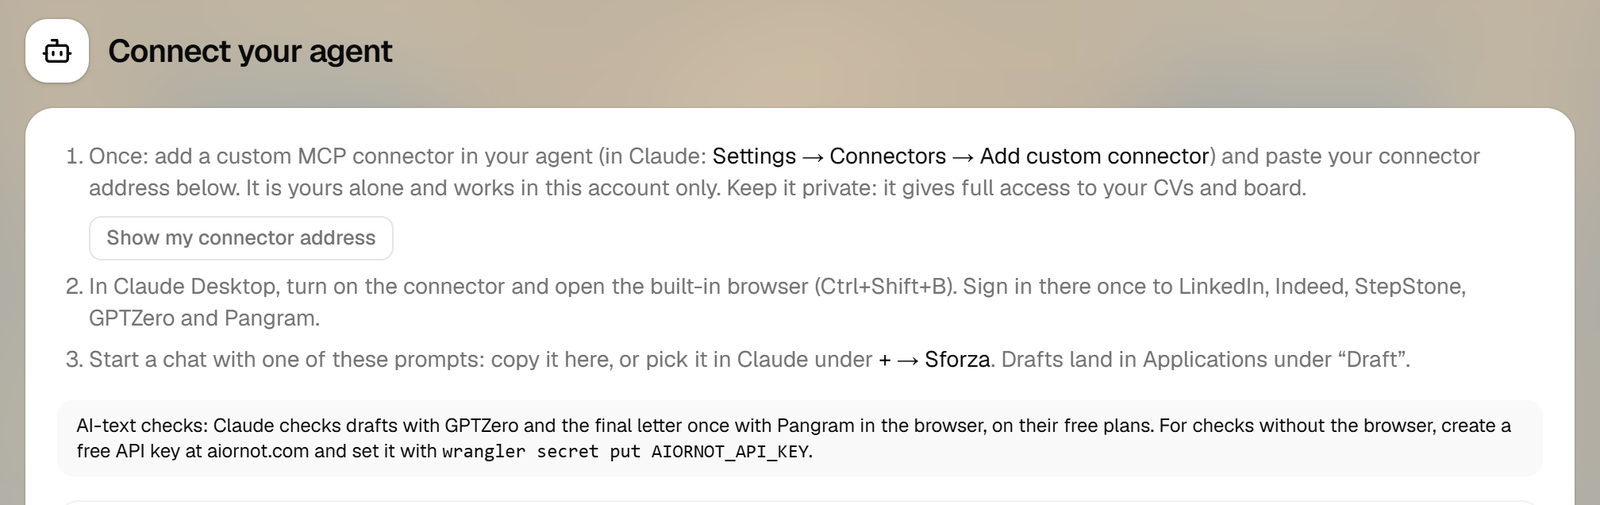
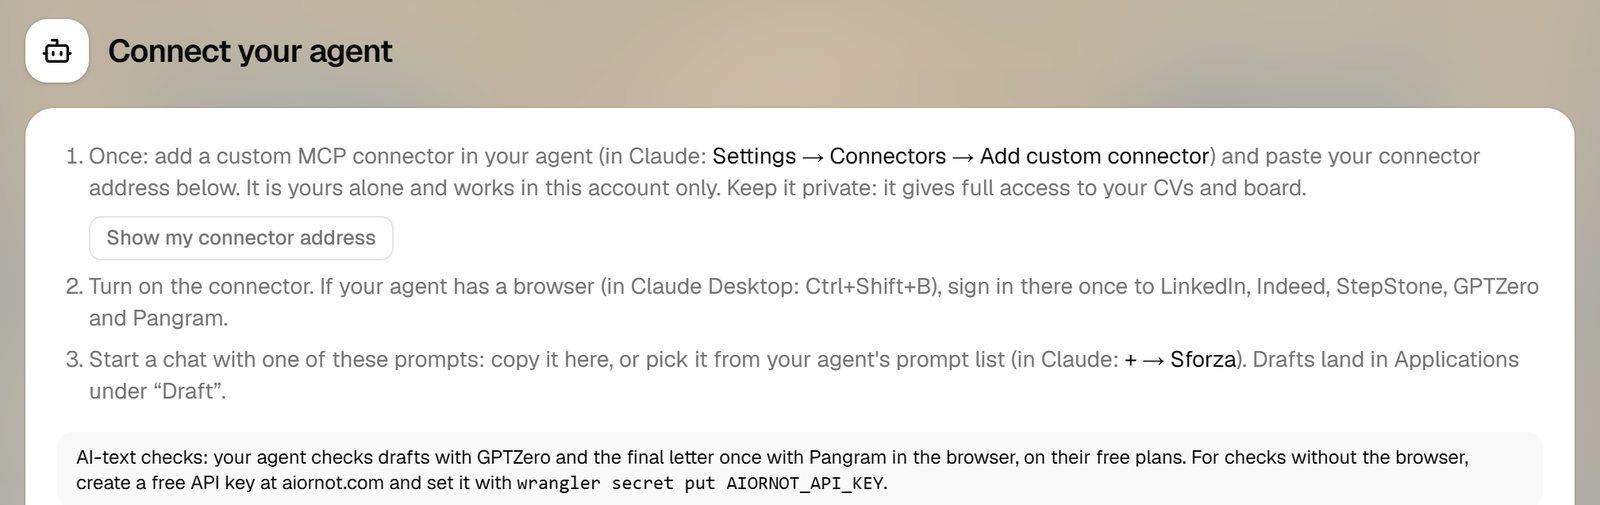
0.11 - Your agent instead of Claude on the MCP page, the job search hints and the board: Claude only as an example in brackets; README and MCP media to match

diff --git a/src/editor/profile/ProfilePage.tsx b/src/editor/profile/ProfilePage.tsx
@@ -96,7 +96,7 @@ function SearchProfileForm({ profile }: { profile: SearchProfile }) {
 
   return (
     <div className="grid gap-5">
-      <Field label="Roles and fields" hint="Job titles, fields and keywords, in your own words. Claude turns them into search terms in the languages of the job market.">
+      <Field label="Roles and fields" hint="Job titles, fields and keywords, in your own words. Your agent turns them into search terms in the languages of the job market.">
         <Textarea {...text('roles')} rows={3} placeholder="Data analyst, BI developer, junior data engineer…" />
       </Field>
 
@@ -104,7 +104,7 @@ function SearchProfileForm({ profile }: { profile: SearchProfile }) {
         <Field label="Country" hint="The job market to search. Left empty, the search uses Germany and its job boards.">
           <Input {...text('country')} placeholder="Germany" />
         </Field>
-        <Field label="Where" hint="Cities, regions or remote. Claude searches these places first.">
+        <Field label="Where" hint="Cities, regions or remote. Your agent searches these places first.">
           <Input {...text('locations')} placeholder="Berlin; remote within the country" />
         </Field>
         <Field label="Radius (km)" hint="Distance around each place.">
@@ -124,7 +124,7 @@ function SearchProfileForm({ profile }: { profile: SearchProfile }) {
           <Field label="My German" hint="Your level, e.g. B1. Shown only when the search is in Germany.">
             <Input {...text('germanLevel')} placeholder="B1" />
           </Field>
-          <Field label="Apply when the German required is" hint="Claude skips postings that ask for more and lists them with the reason.">
+          <Field label="Apply when the German required is" hint="Your agent skips postings that ask for more and lists them with the reason.">
             <Select value={profile.germanLimit} onValueChange={(v) => set('germanLimit', v as GermanLimit)}>
               <SelectTrigger className="w-full">
                 <SelectValue />
@@ -168,7 +168,7 @@ function SearchProfileForm({ profile }: { profile: SearchProfile }) {
 
       <Field
         label="Job sites, searched first"
-        hint="One per line: name, link, what it is good for. Claude starts with these in this order, then follows anything relevant it finds (company career pages)."
+        hint="One per line: name, link, what it is good for. Your agent starts with these in this order, then follows anything relevant it finds (company career pages)."
       >
         <Textarea {...text('sites')} rows={8} className="font-mono text-base md:text-xs" placeholder="LinkedIn Jobs: https://www.linkedin.com/jobs/ (roles in English)" />
       </Field>
@@ -188,7 +188,7 @@ function SearchProfileForm({ profile }: { profile: SearchProfile }) {
             </SelectContent>
           </Select>
         </Field>
-        <Field label="AI detector target (max %)" hint="Highest AI-text detector score allowed per CV or letter. Claude rewrites a document that scores higher once, keeping every fact.">
+        <Field label="AI detector target (max %)" hint="Highest AI-text detector score allowed per CV or letter. Your agent rewrites a document that scores higher once, keeping every fact.">
           <Input {...num('maxAiPercent', 0, 100)} />
         </Field>
         <Field label="Drafts per search" hint="How many drafts one search run prepares at most.">
@@ -199,13 +199,13 @@ function SearchProfileForm({ profile }: { profile: SearchProfile }) {
         </Field>
       </div>
 
-      <Field label="Anything else Claude should know" hint="Free text. Claude reads it before every search.">
+      <Field label="Anything else your agent should know" hint="Free text. Your agent reads it before every search.">
         <Textarea {...text('notes')} rows={3} placeholder="Commute by public transport only; skip companies I applied to this year…" />
       </Field>
 
       <Field
         label="My rules for CVs and letters"
-        hint="Your own preferences for every CV and letter, on top of the common rules below. Claude and the site's AI follow both."
+        hint="Your own preferences for every CV and letter, on top of the common rules below. Your agent and the site's AI follow both."
       >
         <Textarea {...text('cvRules')} rows={3} placeholder="Keep the summary to two sentences; list certifications before education; sign letters with my first name…" />
         <Disclosure title={<span className="text-xs">Common rules every CV follows</span>}>
@@ -217,7 +217,7 @@ function SearchProfileForm({ profile }: { profile: SearchProfile }) {
         </Disclosure>
       </Field>
 
-      <p className="text-muted-foreground text-xs">Saved automatically. Claude reads this with get_profile, and the prompts below are built from it.</p>
+      <p className="text-muted-foreground text-xs">Saved automatically. Your agent reads this with get_profile, and the prompts below are built from it.</p>
     </div>
   )
 }
@@ -334,9 +334,9 @@ function ClaudeSection({ profile }: { profile: SearchProfile }) {
           and paste your connector address below. It is yours alone and works in this account only. Keep it private: it gives full access to your CVs and board.
           <ConnectorAddress />
         </li>
-        <li>In Claude Desktop, turn on the connector and open the built-in browser (Ctrl+Shift+B). Sign in there once to LinkedIn, Indeed, StepStone, GPTZero and Pangram.</li>
+        <li>Turn on the connector. If your agent has a browser (in Claude Desktop: Ctrl+Shift+B), sign in there once to LinkedIn, Indeed, StepStone, GPTZero and Pangram.</li>
         <li>
-          Start a chat with one of these prompts: copy it here, or pick it in Claude under <span className="text-foreground">+ → Sforza</span>.
+          Start a chat with one of these prompts: copy it here, or pick it from your agent's prompt list (in Claude: <span className="text-foreground">+ → Sforza</span>).
           Drafts land in Applications under “Draft”.
         </li>
       </ol>
@@ -347,7 +347,7 @@ function ClaudeSection({ profile }: { profile: SearchProfile }) {
           </>
         ) : (
           <>
-            AI-text checks: Claude checks drafts with GPTZero and the final letter once with Pangram in the browser, on their free plans. For checks without the browser, create a free
+            AI-text checks: your agent checks drafts with GPTZero and the final letter once with Pangram in the browser, on their free plans. For checks without the browser, create a free
             API key at aiornot.com and set it with <code className="font-mono">wrangler secret put AIORNOT_API_KEY</code>.
           </>
         )}

diff --git a/src/editor/applications/ApplicationSheet.tsx b/src/editor/applications/ApplicationSheet.tsx
@@ -623,7 +623,7 @@ function AiChecks({ app, cvLangs }: { app: Application; cvLangs: Lang[] }) {
         })}
       </ul>
       {!detector && (
-        <p className="text-muted-foreground text-[11px]">Claude records the scores of the detector it used in the browser (GPTZero, ZeroGPT…).</p>
+        <p className="text-muted-foreground text-[11px]">Your agent records the scores of the detector it used in the browser (GPTZero, ZeroGPT…).</p>
       )}
     </div>
   )
@@ -665,7 +665,7 @@ function FormAnswers({ app }: { app: Application }) {
       </div>
       {answers.length === 0 && (
         <p className="text-muted-foreground text-xs">
-          Claude saves the answers to the form&apos;s questions here (save_form_answers), ready to copy. You can also add them yourself.
+          Your agent saves the answers to the form&apos;s questions here (save_form_answers), ready to copy. You can also add them yourself.
         </p>
       )}
       {answers.map((a, i) => (

diff --git a/src/editor/applications/ApplicationsPage.tsx b/src/editor/applications/ApplicationsPage.tsx
@@ -149,7 +149,7 @@ function EmptyState({ unlinked, importing, onAdd, onImport }: { unlinked: number
         <h2 className="text-lg font-semibold">Track your job applications</h2>
         <p className="text-muted-foreground mt-1 text-sm">
           Paste a job link to add a card with the company logo, then move it from “Saved” to “Offer”. CVs tailored to a job, by you or by
-          Claude, land in “Draft” automatically.
+          your agent, land in “Draft” automatically.
         </p>
         <div className="mt-5 flex flex-wrap justify-center gap-2">
           <Button onClick={onAdd}>

diff --git a/shared/version.ts b/shared/version.ts
@@ -3,4 +3,4 @@
  * Most changes append to the last number (0.1 → 0.11 → 0.12 → … → 0.19 → 0.110); a big change starts the next
  * series (0.2), and only after the owner agreed to it.
  */
-export const VERSION = '0.1'
+export const VERSION = '0.11'

diff --git a/README.md b/README.md
@@ -197,7 +197,7 @@ Set `MCP_TOKEN`, sign in, and open MCP in the top bar (`/connector`) to copy you
 
 ![MCP panel: connector address and setup steps](.github/readme/mcp-setup.png)
 
-Claude Desktop or claude.ai: Settings, Connectors, Add custom connector, name it Sforza, paste the address.
+In your agent, add a custom connector named Sforza and paste the address (in Claude Desktop or claude.ai: Settings, Connectors, Add custom connector).
 
 Other clients can call `https://<host>/mcp` with `Authorization: Bearer <token>`, for example through `mcp-remote`:
 
